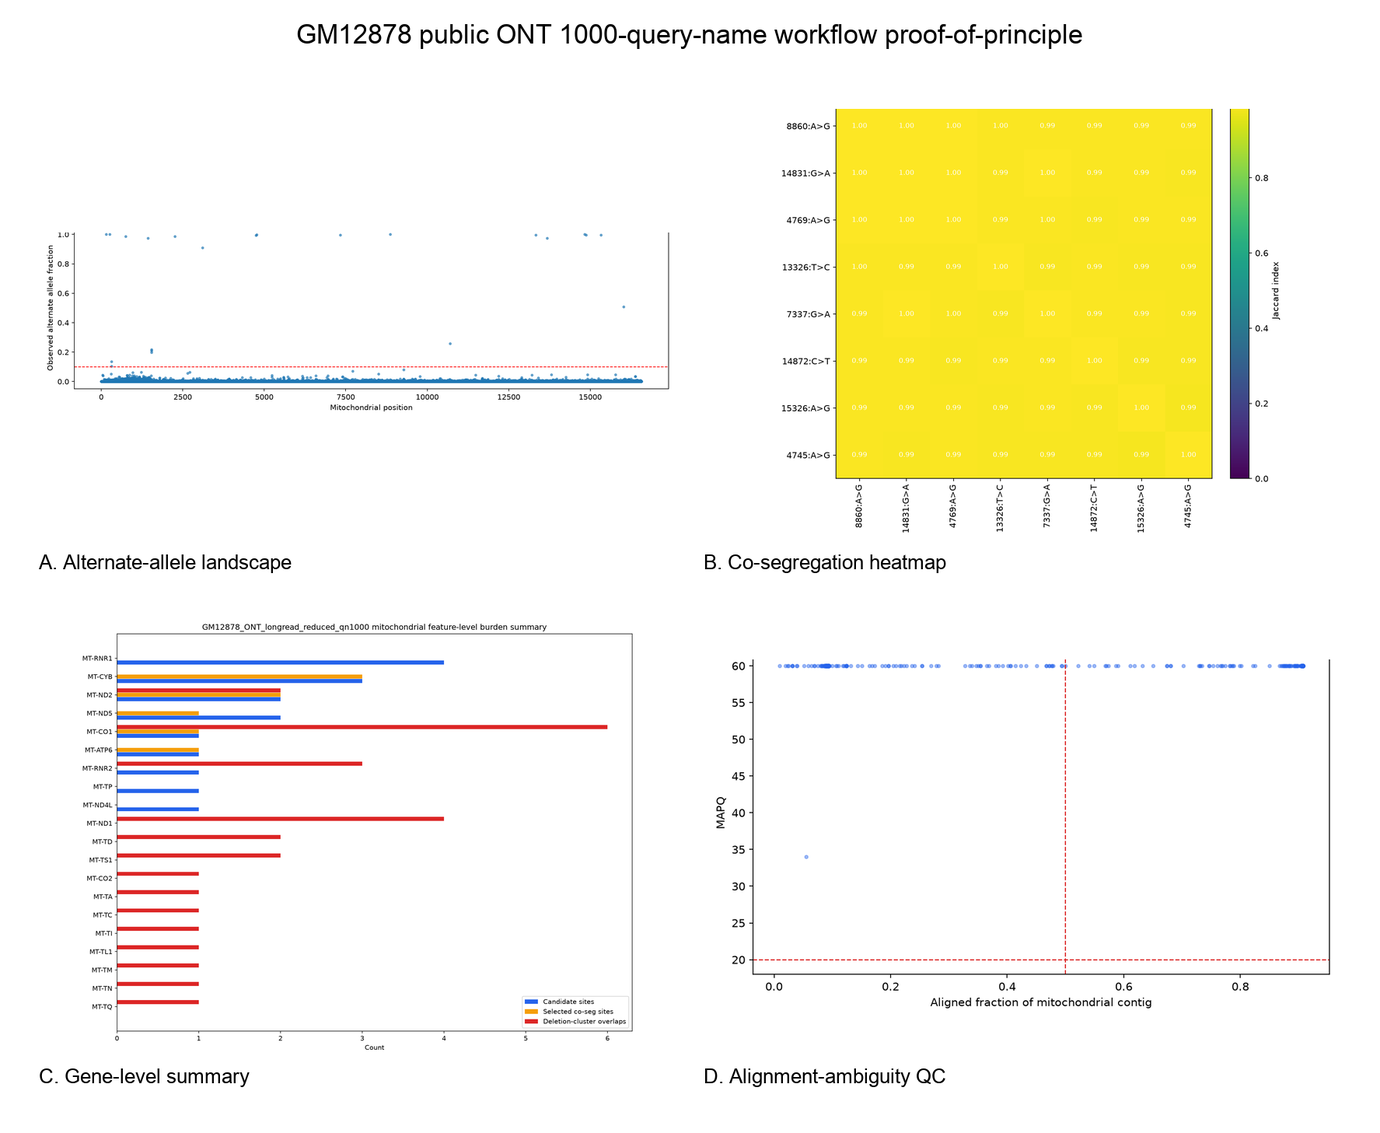
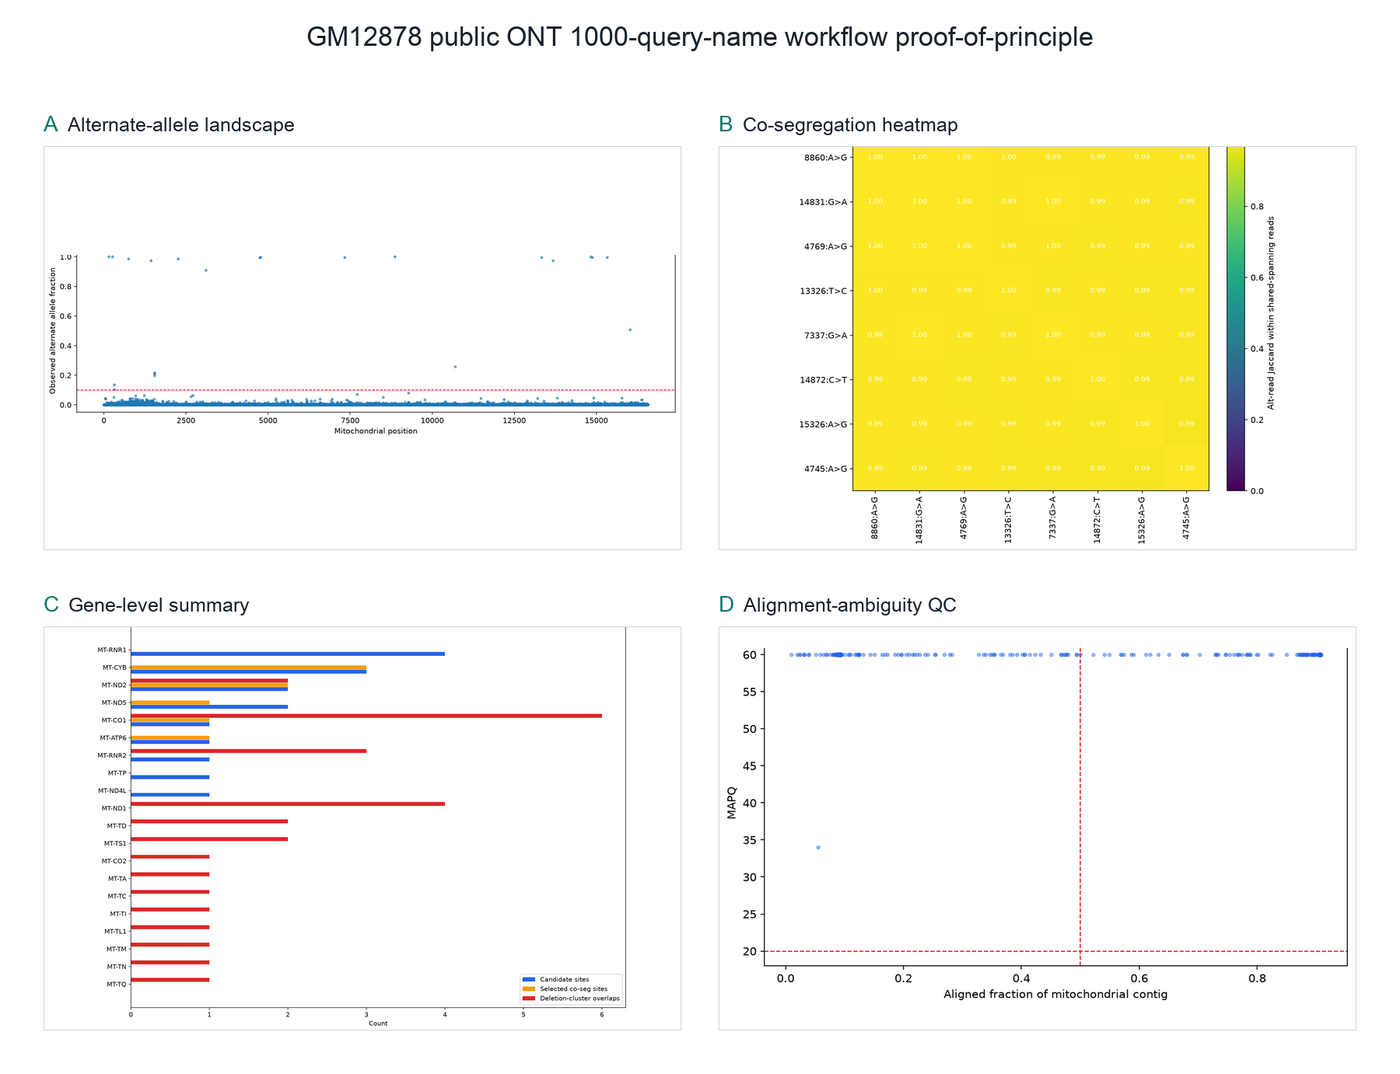
Refresh public examples from sealed validation matrix

diff --git a/docs/preprint_release_validation_v0.3.0.md b/docs/preprint_release_validation_v0.3.0.md
@@ -1,9 +1,8 @@
 # MitoOverview v0.3.0 Release-Candidate Validation
 
-> **Historical candidate-validation snapshot.** The 239-test, 13-case,
-> 46-normalized-file, fixed-BAM results below record the bounded 2026-07-20
-> candidate evidence. They are not the active v0.3.0 release gate. The active
-> seven-FASTQ, 17-case protocol is defined in
+> **Provisional candidate-validation record.** The local results below include
+> the 2026-07-21 seven-FASTQ, 17-case matrix and its regenerated lightweight
+> public assets. They are not yet bound to `FINAL_SHA`. The active release gate is defined in
 > [`clean_room_validation_protocol_v0.3.0.md`](clean_room_validation_protocol_v0.3.0.md),
 > and its current state is tracked in
 > [`reproducibility_run_ledger.md`](reproducibility_run_ledger.md).
@@ -12,11 +11,11 @@
 
 This document records public validation evidence for the unreleased MitoOverview v0.3.0 release candidate. It does not claim a final tagged release.
 
-- Evidence date: 2026-07-20
+- Evidence date: 2026-07-21
 - Repository: https://github.com/elissonnog/mito-overview
 - Candidate version: `0.3.0`
 - Release status: **unreleased release candidate**
-- Validation status: **historical bounded evidence recorded; exact-final-commit validation pending**
+- Validation status: **local provisional matrix passed; exact-final-commit cross-platform validation pending**
 
 The final `v0.3.0` tag has not been assigned. Zenodo, an archival DOI, and manuscript work are outside this GitHub-only validation gate.
 
@@ -138,7 +137,7 @@ These results characterize the tested release-candidate state within the stated 
 
 ## Public-data validation design
 
-The public validation matrix was run twice at default filters and once at each descriptive filter profile at historical clean validation source commit `dc09114e1a0dcec2baf83d94549dfa41f3e49c8b`. Exact normalized TSV comparisons were used for repeatability; HTML and PNG files were checked for inventory, dimensions, CRC/structure, and visual consistency rather than byte identity. These tracked outputs are release-candidate supporting evidence, not evidence bound to the eventual final v0.3.0 commit. Exact-final-commit reruns and the self-verifying audit ZIP remain release gates.
+The local public validation matrix reconstructed both alignments from the seven sealed FASTQs, ran two default report invocations and one invocation per descriptive filter profile, and passed all 17 required cases. Exact normalized TSV and decoded-pixel comparisons were used for same-platform repeatability; HTML files were compared structurally. All 256 frozen scientific oracle assertions passed. The matrix ran inside macOS process-tree network isolation, with the parent connectivity control reachable and the isolated child probe blocked. These tracked outputs are provisional supporting evidence, not evidence bound to the eventual final v0.3.0 commit. Exact-`FINAL_SHA` macOS and Ubuntu reruns and the self-verifying audit ZIP remain release gates.
 
 Lightweight, tracked evidence copies are:
 
@@ -152,7 +151,7 @@ Lightweight, tracked evidence copies are:
 
 | Dataset | Public source | Analyzed material | Key provenance |
 | --- | --- | --- | --- |
[3 lines of base64/hex data omitted]
 
 Both datasets were aligned to the 16,569-bp `NC_012920.1` reference. BWA-MEM was selected for the pooled paired-end GM11906 reads; the tracked BWA `0.7.19-r1273` command template was:
@@ -167,13 +166,13 @@ Minimap2 with the `map-ont` preset was selected for the GM12878 ONT reads; the t
 minimap2 -t {threads} -ax map-ont {reference_mmi} {deterministic_subset_fastq} | samtools view -@ {threads} -b -F 4 | samtools sort -@ {threads} -o {alignment_bam}
 ```
 
[2 lines of base64/hex data omitted]
 
 ## Public-data results
 
 ### Matrix verdicts
 
-All 13 prespecified historical fixed-BAM matrix cases passed at the historical clean source commit. The active seven-FASTQ protocol defines 17 required matrix cases and remains pending until those cases pass and are packet-bound at the exact final candidate commit.
+All 17 required local matrix cases passed. These provisional results remain pending release acceptance until the same contract passes on macOS and Ubuntu and is packet-bound to the exact final commit.
 
 | Evidence class | Cases | Verdict |
 | --- | ---: | --- |
@@ -184,8 +183,12 @@ All 13 prespecified historical fixed-BAM matrix cases passed at the historical c
 | Normalized-TSV repeatability | 2 | PASS |
 | HTML/PNG integrity and structural consistency | 2 | PASS |
 | Filter-profile summary | 1 | PASS |
+| Frozen scientific oracle | 1 | PASS |
+| Raw-cache seal | 1 | PASS |
+| OS process-tree network isolation | 1 | PASS |
+| Project network-entrypoint canaries | 1 | PASS |
 
-Both normalized repeat diffs were empty. Both visual-structure diffs were empty. Each default normalized inventory contained 46 files under the historical normalizer. Both default workflows contained 14 HTML pages; GM11906 contained seven report PNGs and GM12878 contained 15 before representative tracked figures were selected.
+Both normalized repeat diffs and both visual-structure diffs were empty. Each default workflow contained 44 summary TSVs and 14 HTML pages; GM11906 contained seven report PNGs and GM12878 contained 15 before representative tracked figures were selected.
 
 ### GM11906 reduced short-read proof of principle
 

diff --git a/docs/validation_public_shortread.md b/docs/validation_public_shortread.md
@@ -1,28 +1,28 @@
-# Historical public reduced short-read workflow evidence
+# Provisional public reduced short-read workflow evidence
 
-The repository tracks a GM11906 compatibility example made by pooling three public single-cell ATAC-seq libraries into a pseudo-bulk for the reduced short-read report profile. These outputs are historical derived evidence from the then-unreleased `mito-overview` v0.3.0 candidate; they are not represented as having been generated at the eventual final release commit.
+The repository tracks a GM11906 compatibility example made by pooling three public single-cell ATAC-seq libraries into a pseudo-bulk for the reduced short-read report profile. The current lightweight assets were regenerated by the 17-case local v0.3.0 matrix from the six verified accession FASTQs. They are pre-release supporting evidence, not evidence bound to the eventual final release commit.
 
 ## Evidence scope
-- historical evidence snapshot: `2026-07-20`
-- historical clean validation source commit: `dc09114e1a0dcec2baf83d94549dfa41f3e49c8b`
-- tracked-output status: derived from that historical source commit; not final v0.3.0 release-packet evidence
+- provisional evidence snapshot: `2026-07-21`
+- local matrix result: all `17/17` required cases and `256/256` scientific oracle assertions passed under macOS process-tree network isolation
+- tracked-output status: regenerated from the seven-FASTQ matrix; not final v0.3.0 release-packet evidence
 - source runs: `SRR10804585`, `SRR10804590`, and `SRR10804657`
 - sample context: three single-cell ATAC-seq libraries from one GM11906 lymphoblastoid line, pooled as a pseudo-bulk
 - profile: `READ_MODE=short`, `ASSAY_TYPE=targeted_mt`
 - runner: `scripts/run_public_shortread_validation_gm11906.sh`
 
-The three public runs (`GSM4238454`, `GSM4238459`, and `GSM4238526`) were combined for the reduced-profile report, and the matrix reused a provenance-verified fixed BAM. GEO identifies all three as single-cell ATAC-seq libraries from GM11906. The derived files were tracked by later repository commits, but tracking them later does not change their generation provenance to those later commits.
+The three public runs (`GSM4238454`, `GSM4238459`, and `GSM4238526`) were combined for the reduced-profile report. GEO identifies all three as single-cell ATAC-seq libraries from GM11906. The local matrix rebuilt the pooled paired FASTQs and BWA-MEM alignment from the six sealed FASTQs before running the report profiles.
 
 ## Final v0.3.0 release binding
 
-Before these observations can support final v0.3.0 release acceptance, the public matrix must be rerun from the exact clean final candidate. The required audit packet must bind that same full commit to the fixed-input provenance and hashes, commands, logs, normalized observed outputs, filter-profile checks, package artifacts, and passing Linux/macOS CI evidence. The packet must then pass its generated `verify_bundle.sh` from both the packet root and a fresh extraction of `mito-overview-v0.3.0-validation.zip`.
+Before these observations can support final v0.3.0 release acceptance, the matrix must be rerun from the exact clean `FINAL_SHA` on macOS and Ubuntu. The required audit packet must bind that commit to input hashes, derivation commands, logs, normalized outputs, filter-profile checks, package artifacts, and exact-commit GitHub Actions evidence. The packet must then pass its generated `verify_bundle.sh` from both its build directory and a fresh ZIP extraction.
 
-Until that exact-commit packet exists and passes, the values below remain historical `dc09114…`-derived observations. They must not be relabeled as generated by a newer candidate, and all final release, CI, tag, and GitHub-asset gates remain **pending**.
+Until that exact-commit packet exists and passes, the values below remain local provisional observations. All final release, CI, tag, and GitHub-asset gates remain **pending**.
 
 ## Default profile
 The example-specific candidate thresholds are `MIN_CALLABLE_DEPTH=10` and `MIN_ALT_ALLELE_FRACTION=0.20`. The default observation filters are `ALLELE_MIN_BASE_QUALITY=13`, `ALLELE_MIN_MAPPING_QUALITY=20`, and `ALLELE_MIN_READ_MEAN_QUALITY=10`.
 
-The historical default run reported:
+The provisional default run reported:
 
 - `33` candidate sites
 - `44,052,664` accepted observations
@@ -33,7 +33,7 @@ The historical default run reported:
 ## Filter-profile matrix
 Profiles vary only the allele-observation quality filters; candidate thresholds remain fixed.
 
-Historical candidate counts were lenient=`33`, default=`33`, and strict=`33`; accepted observations were lenient=`44,052,664`, default=`44,052,664`, and strict=`42,676,166`.
+Provisional candidate counts were lenient=`33`, default=`33`, and strict=`33`; accepted observations were lenient=`44,052,664`, default=`44,052,664`, and strict=`42,676,166`.
 
 | Profile | BaseQ | MAPQ | ReadQ | Candidate sites | Accepted observations | Excluded observations |
 | --- | ---: | ---: | ---: | ---: | ---: | ---: |
@@ -42,10 +42,10 @@ Historical candidate counts were lenient=`33`, default=`33`, and strict=`33`; ac
 | strict | 20 | 30 | 15 | 33 | 42,676,166 | 8,669,604 |
 
 ## Mode-gated statuses
-In the historical run, the reduced short-read targeted-mt profile wrote `not_applicable` status outputs for `deletions`, `copy_number`, `cosegregation`, `numt_qc`, `phymer_haplogroup`, `identity_qc`, `circularity_qc`, and `methylation_exploratory`. Optional `mvtool_annotation` was `not_configured` when disabled.
+In the provisional run, the reduced short-read targeted-mt profile wrote `not_applicable` status outputs for `deletions`, `copy_number`, `cosegregation`, `numt_qc`, `phymer_haplogroup`, `identity_qc`, `circularity_qc`, and `methylation_exploratory`. Optional `mvtool_annotation` was `not_configured` when disabled.
 
 ## Repeatability and claim scope
-At the historical source commit, two default invocations from the same provenance-verified BAM produced matching normalized TSVs. HTML and PNG artifacts were readable and structurally consistent across the repeats. This result is conditional on the fixed BAM; it does not assess download, FASTQ combination, or alignment regeneration. The evidence supports workflow execution, report/resource generation, descriptive filter dependence, and mode gating only. The pooled alternate allele fraction is not a per-cell value, a calibrated sample heteroplasmy estimate, or evidence of short-read WGS performance. It is supporting context, not a substitute for exact-final-commit release validation.
+The matrix first reconstructed the pooled FASTQs and alignment, then used that newly generated derivative for two default report invocations. Their normalized TSVs and decoded PNG pixels matched exactly, and their HTML structures matched. This separates report repeatability from alignment variability while still testing the raw-FASTQ derivation once in the matrix. The evidence supports workflow execution, report/resource generation, descriptive filter dependence, and mode gating only. The pooled alternate allele fraction is not a per-cell value, a calibrated sample heteroplasmy estimate, or evidence of short-read WGS performance.
 
 Tracked asset pack:
 - `examples/public_validation/GM11906_MERRF_shortread`

diff --git a/docs/validation_public_longread.md b/docs/validation_public_longread.md
@@ -1,11 +1,11 @@
-# Historical public ONT long-read reduced-input evidence
+# Provisional public ONT long-read reduced-input evidence
 
-The repository tracks a bounded public GM12878 ONT targeted-mt example for exercising the long-read report workflow and its assay-mode status handling. These outputs are historical derived evidence from the then-unreleased `mito-overview` v0.3.0 candidate; they are not represented as having been generated at the eventual final release commit.
+The repository tracks a bounded public GM12878 ONT targeted-mt example for exercising the long-read report workflow and its assay-mode status handling. The current lightweight assets were regenerated by the 17-case local v0.3.0 matrix from the verified source FASTQ. They are pre-release supporting evidence, not evidence bound to the eventual final release commit.
 
 ## Evidence scope
-- historical evidence snapshot: `2026-07-20`
-- historical clean validation source commit: `dc09114e1a0dcec2baf83d94549dfa41f3e49c8b`
-- tracked-output status: derived from that historical source commit; not final v0.3.0 release-packet evidence
+- provisional evidence snapshot: `2026-07-21`
+- local matrix result: all `17/17` required cases and `256/256` scientific oracle assertions passed under macOS process-tree network isolation
+- tracked-output status: regenerated from the seven-FASTQ matrix; not final v0.3.0 release-packet evidence
 - public accessions: BioProject `PRJNA809571`, run `SRR18110025`
 - dataset source: [Vandiver et al., 2022, PMCID PMC9399971](https://pmc.ncbi.nlm.nih.gov/articles/PMC9399971/)
 - public assay description: `Long read mitochondrial genome sequencing using Cas9-guided adaptor ligation`
@@ -27,16 +27,16 @@ The provenance-verified mapped-only BAM contains:
 - `543` supplementary records
 - `1,271` mapped alignment records in total
 
-The historical validation matrix reused that fixed BAM. Its repeatability result is conditional on the BAM and does not test regeneration of the query-name subset or alignment.
+The local matrix independently recomputed the seeded query-name subset and rebuilt the mapped-only BAM from the sealed source FASTQ. It then reused that newly generated derivative for the two default report invocations so report repeatability was not conflated with a second alignment.
 
 ## Final v0.3.0 release binding
 
-Before these observations can support final v0.3.0 release acceptance, the public matrix must be rerun from the exact clean final candidate. The required audit packet must bind that same full commit to fixed-input provenance and hashes, commands, logs, normalized observed outputs, filter-profile checks, package artifacts, and passing Linux/macOS CI evidence. Until that packet exists and passes, the values below remain historical `dc09114...`-derived observations and all final release, CI, tag, and GitHub-asset gates remain pending.
+Before these observations can support final v0.3.0 release acceptance, the matrix must be rerun from the exact clean `FINAL_SHA` on macOS and Ubuntu. The required audit packet must bind that commit to input hashes, derivation commands, logs, normalized outputs, filter-profile checks, package artifacts, and exact-commit GitHub Actions evidence. Until that packet exists and passes, these values remain local provisional observations and all final release, CI, tag, and GitHub-asset gates remain pending.
 
 ## Default profile
 The example-specific candidate thresholds are `MIN_CALLABLE_DEPTH=100` and `MIN_ALT_ALLELE_FRACTION=0.10`. The default observation filters are `ALLELE_MIN_BASE_QUALITY=13`, `ALLELE_MIN_MAPPING_QUALITY=20`, and `ALLELE_MIN_READ_MEAN_QUALITY=10`.
 
-The historical default run reported:
+The provisional default run reported:
 
 - `16` candidate sites
 - `7,143,152` accepted observations
@@ -59,7 +59,7 @@ Targeted-mt and optional-layer status values are:
 ## Filter-profile matrix
 Profiles vary only the allele-observation quality filters; candidate thresholds remain fixed.
 
-Historical candidate counts were lenient=`32`, default=`16`, and strict=`15`; accepted observations were lenient=`8,278,969`, default=`7,143,152`, and strict=`6,046,355`.
+Provisional candidate counts were lenient=`32`, default=`16`, and strict=`15`; accepted observations were lenient=`8,278,969`, default=`7,143,152`, and strict=`6,046,355`.
 
 | Profile | BaseQ | MAPQ | ReadQ | Candidate sites | Accepted observations | Excluded observations |
 | --- | ---: | ---: | ---: | ---: | ---: | ---: |
@@ -68,7 +68,7 @@ Historical candidate counts were lenient=`32`, default=`16`, and strict=`15`; ac
 | strict | 20 | 30 | 15 | 15 | 6,046,355 | 3,144,273 |
 
 ## Repeatability and claim scope
-At the historical source commit, two default invocations from the same provenance-verified BAM produced matching normalized TSVs. HTML and PNG artifacts were readable and structurally consistent across the repeats. This evidence supports fixed-input workflow execution, report/resource generation, filter-profile dependence, and status gating only. It is supporting context, not a substitute for exact-final-commit release validation.
+The matrix first reconstructed the seeded subset and alignment, then used that newly generated derivative for two default report invocations. Their normalized TSVs and decoded PNG pixels matched exactly, and their HTML structures matched. This evidence supports fixed-input workflow execution, report/resource generation, filter-profile dependence, and status gating only. It is supporting context, not a substitute for exact-final-commit release validation.
 
 Tracked asset pack:
 - `examples/public_validation/GM12878_ONT_longread`

diff --git a/README.md b/README.md
@@ -213,7 +213,7 @@ This example uses the public GM12878 targeted-mt ONT dataset reported by Vandive
 
 The release-candidate protocol selects exactly the `1,000` smallest seeded query-name hashes from `193,043` source FASTQ records, then aligns that reconstructed subset to `NC_012920.1` with minimap2 `2.31-r1302`. The expected mapped-only derivative has `728` mapped unique query names represented by `728` primary alignments and `543` supplementary records.
 
-With `MIN_CALLABLE_DEPTH=100`, `MIN_ALT_ALLELE_FRACTION=0.10`, and default BaseQ/MAPQ/readQ filters `13/20/10`, the v0.3.0 validation oracle expects `16` candidates, `7,143,152` accepted observations, and `2,047,476` excluded observations. The structural screen expects `13` singleton CIGAR-deletion bins, each supported by one query name; separately, `542` query names are expected to have a supplementary alignment or `SA` tag. Prescribed statuses are `not_applicable` for the within-sample mt:nuclear depth ratio and Phy-Mer, `not_configured` for mvTool and methylation, and `not_evaluable` for NUMT interpretation with `reference_scope_mt_only`. Final exact-commit observed values and commit-bound provenance will be distributed in the GitHub release validation packet; until that packet passes, these values remain frozen oracle expectations with historical supporting observations.
+With `MIN_CALLABLE_DEPTH=100`, `MIN_ALT_ALLELE_FRACTION=0.10`, and default BaseQ/MAPQ/readQ filters `13/20/10`, the v0.3.0 validation oracle expects `16` candidates, `7,143,152` accepted observations, and `2,047,476` excluded observations. The structural screen expects `13` singleton CIGAR-deletion bins, each supported by one query name; separately, `542` query names are expected to have a supplementary alignment or `SA` tag. Prescribed statuses are `not_applicable` for the within-sample mt:nuclear depth ratio and Phy-Mer, `not_configured` for mvTool and methylation, and `not_evaluable` for NUMT interpretation with `reference_scope_mt_only`. Final exact-commit observed values and commit-bound provenance will be distributed in the GitHub release validation packet; until that packet passes, these values remain frozen oracle expectations with local provisional supporting observations.
 
 | GM12878 profile | BaseQ/MAPQ/readQ | Candidates | Accepted observations |
 | --- | --- | ---: | ---: |
@@ -234,7 +234,7 @@ This example pools paired-end reads from three single-cell ATAC-seq libraries de
 - [GEO `GSM4238526` / `SRR10804657`](https://www.ncbi.nlm.nih.gov/geo/query/acc.cgi?acc=GSM4238526)
 - [Coriell GM11906](https://www.coriell.org/0/Sections/Search/Sample_Detail.aspx?Ref=GM11906)
 
-The MitoOverview run uses `READ_MODE=short` and the `ASSAY_TYPE=targeted_mt` report profile because the regenerated alignment contains only mtDNA. With `MIN_CALLABLE_DEPTH=10`, `MIN_ALT_ALLELE_FRACTION=0.20`, and default BaseQ/MAPQ/readQ filters `13/20/10`, the v0.3.0 validation oracle expects `33` candidates, `44,052,664` accepted observations, and `7,293,106` excluded observations. The `m.8344A>G` row is expected at depth `1,027`, with alternate count `740`, observed alternate allele fraction `0.720545`, and `MT-TK` / `tRNA_variant` annotation. This fraction is calculated across pooled passing read observations and is not a per-cell or independently calibrated sample heteroplasmy estimate. Final exact-commit observed values and commit-bound provenance will be distributed in the GitHub release validation packet; until that packet passes, these values remain frozen oracle expectations with historical supporting observations.
+The MitoOverview run uses `READ_MODE=short` and the `ASSAY_TYPE=targeted_mt` report profile because the regenerated alignment contains only mtDNA. With `MIN_CALLABLE_DEPTH=10`, `MIN_ALT_ALLELE_FRACTION=0.20`, and default BaseQ/MAPQ/readQ filters `13/20/10`, the v0.3.0 validation oracle expects `33` candidates, `44,052,664` accepted observations, and `7,293,106` excluded observations. The `m.8344A>G` row is expected at depth `1,027`, with alternate count `740`, observed alternate allele fraction `0.720545`, and `MT-TK` / `tRNA_variant` annotation. This fraction is calculated across pooled passing read observations and is not a per-cell or independently calibrated sample heteroplasmy estimate. Final exact-commit observed values and commit-bound provenance will be distributed in the GitHub release validation packet; until that packet passes, these values remain frozen oracle expectations with local provisional supporting observations.
 
 | GM11906 profile | BaseQ/MAPQ/readQ | Candidates | Accepted observations |
 | --- | --- | ---: | ---: |

diff --git a/analysis_log.md b/analysis_log.md
@@ -79,3 +79,5 @@ This log records release-hardening actions that affect the public repository. It
 - Expanded adversarial tests to reject a different PR number, a stale public-main candidate, incomplete or mismatched public-workflow evidence, an expired or wrong artifact, unequal normalized cross-platform results, and resealed packet tampering. The focused runner/packet suite passed `119` tests.
 - Added a three-phase GitHub release publisher (`create-draft`, `upload-verify`, and `publish`) that verifies the exact remote `main`, annotated tag target, asset hashes after redownload, immutable-release configuration, and post-publication attestations. Its regression suite passed `17` tests, including explicit handling of disabled and malformed immutable-release API state.
 - Re-ran the complete deterministic suite after integrating these evidence-chain changes; all `384` tests passed in `103.11` seconds. The frozen `paper/**` tree remained `bfb5664db9c8b43ed5de33ecbddef88071fc6378`.
+- Completed the provisional seven-FASTQ public matrix under macOS process-tree network isolation. All `17/17` required cases and `256/256` frozen oracle assertions passed; GM11906 and GM12878 normalized repeat diffs and visual-structure diffs were empty, and all six filter-profile counts matched the preregistered oracle.
+- Refreshed the exact 56-file tracked public-example inventory only after those gates passed. Visual review found clipping in the earlier long-read montage; the montage composer was corrected to use bounded caption bands, trimmed report-native panels, and protected margins without modifying any scientific source plot or manuscript file.
